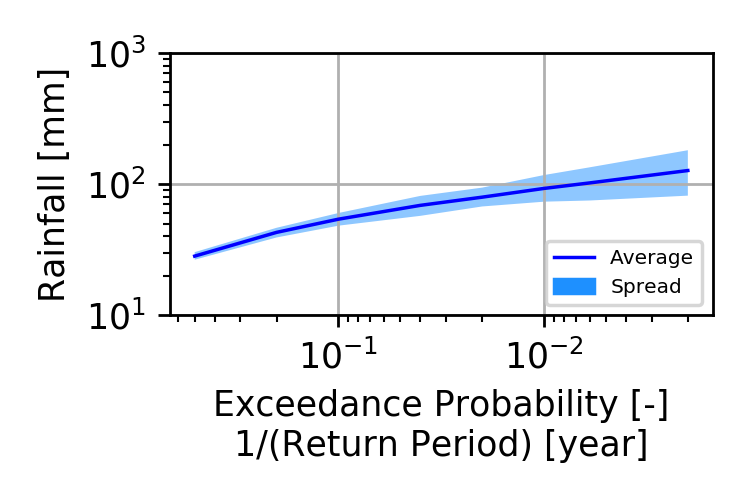
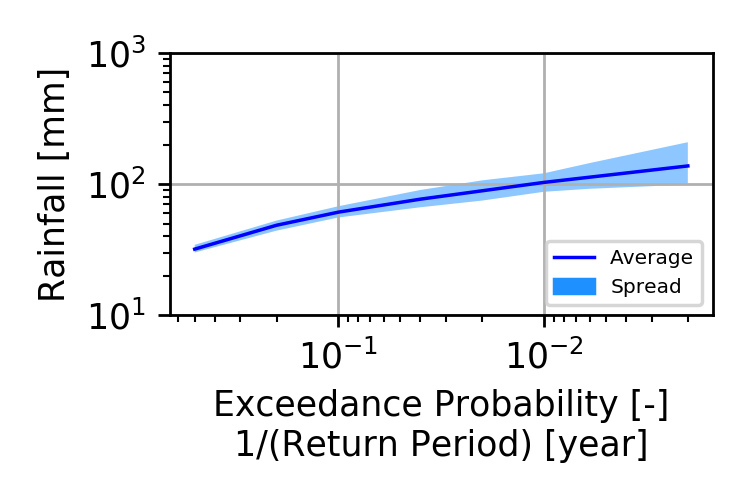
Made change so that RESCALING will work for 'pointarea' larger than a single grid cell.

Changed region(s): [[0.2453, 0.27, 0.92, 0.54]]

diff --git a/Source/RainyDay_Py3.py b/Source/RainyDay_Py3.py
@@ -1788,9 +1788,11 @@ if FreqAnalysis:
         intensemask=np.equal(np.sum(intenserain,axis=0),0.)
         intenserain[:,intensemask]=np.nan
         int_xmin=np.abs(intenselon-rainprop.bndbox[0]).argmin()
-        int_xmax=np.abs(intenselon-rainprop.bndbox[1]).argmin()+1
-        int_ymax=np.abs(intenselat-rainprop.bndbox[2]).argmin()+1
         int_ymin=np.abs(intenselat-rainprop.bndbox[3]).argmin()
+        int_xmax=np.abs(intenselon-rainprop.bndbox[1]).argmin()
+        int_ymax=np.abs(intenselat-rainprop.bndbox[2]).argmin()
+        #int_xmax=np.abs(intenselon-rainprop.bndbox[1]).argmin()+1
+        #int_ymax=np.abs(intenselat-rainprop.bndbox[2]).argmin()+1
         intenserain=intenserain[:,int_ymin:int_ymax,int_xmin:int_xmax]
         intenselat=intenselat[int_ymin:int_ymax]
         intenselon=intenselon[int_xmin:int_xmax]
@@ -1815,10 +1817,10 @@ if FreqAnalysis:
 
         # the stochastic multiplier approach uses the log of the rainfall:
         intenserain=np.log(intenserain)
-
         hometemp=np.nansum(np.multiply(intenserain,catmask),axis=(1,2))/mnorm
         xlen_wmask=rainprop.subdimensions[1]-maskwidth+1
         ylen_wmask=rainprop.subdimensions[0]-maskheight+1
+                
         
         # there is some goofy numba stuff below...
         if maskheight>1 or maskwidth>1:
@@ -1836,8 +1838,12 @@ if FreqAnalysis:
         intensestd=RainyDay.mysmoother(intensestd,sigma=[smoothsig,smoothsig])
         intensecorr=RainyDay.mysmoother(intensecorr,sigma=[smoothsig,smoothsig])
         
-        homemean=np.nansum(np.multiply(intensemean,catmask),axis=(0,1))/mnorm
-        homestd=np.nansum(np.multiply(intensestd,catmask),axis=(0,1))/mnorm
+        if maskheight>1 or maskwidth>1:
+            homemean=np.nansum(np.multiply(intensemean,catmask[:-maskheight+1,:-maskwidth+1]),axis=(0,1))/mnorm
+            homestd=np.nansum(np.multiply(intensestd,catmask[:-maskheight+1,:-maskwidth+1]),axis=(0,1))/mnorm        
+        else:    
+            homemean=np.nansum(np.multiply(intensemean,catmask),axis=(0,1))/mnorm
+            homestd=np.nansum(np.multiply(intensestd,catmask),axis=(0,1))/mnorm
         
         # just in case you don't have any data to inform the rescaling:
         intensemean[np.isneginf(intensemean)]=homemean
